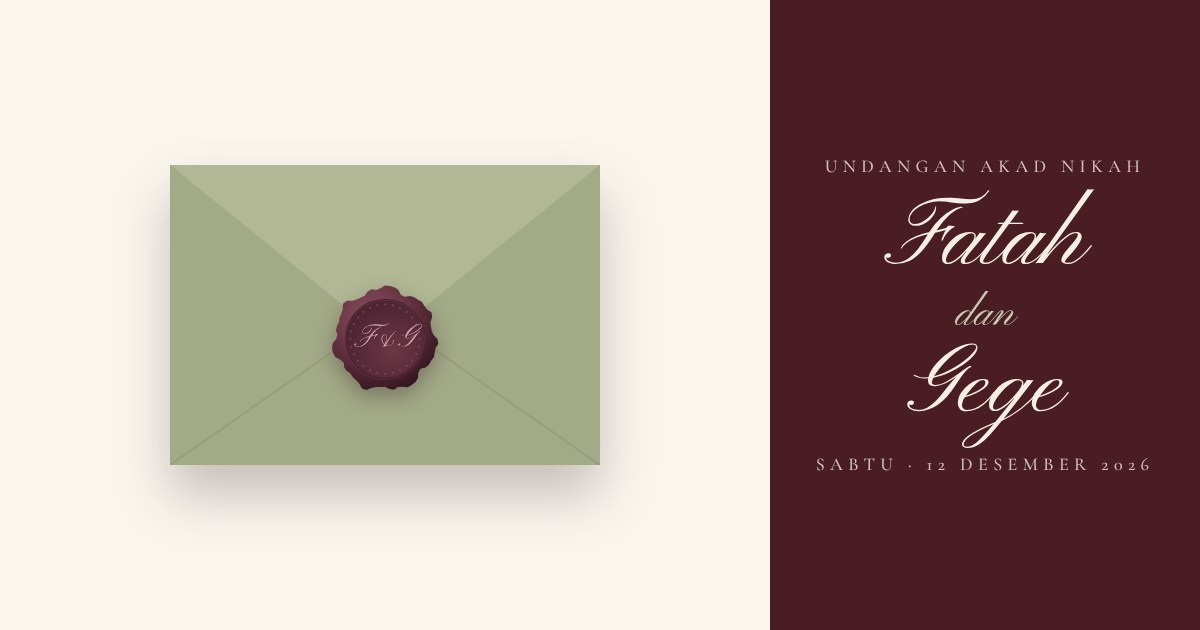
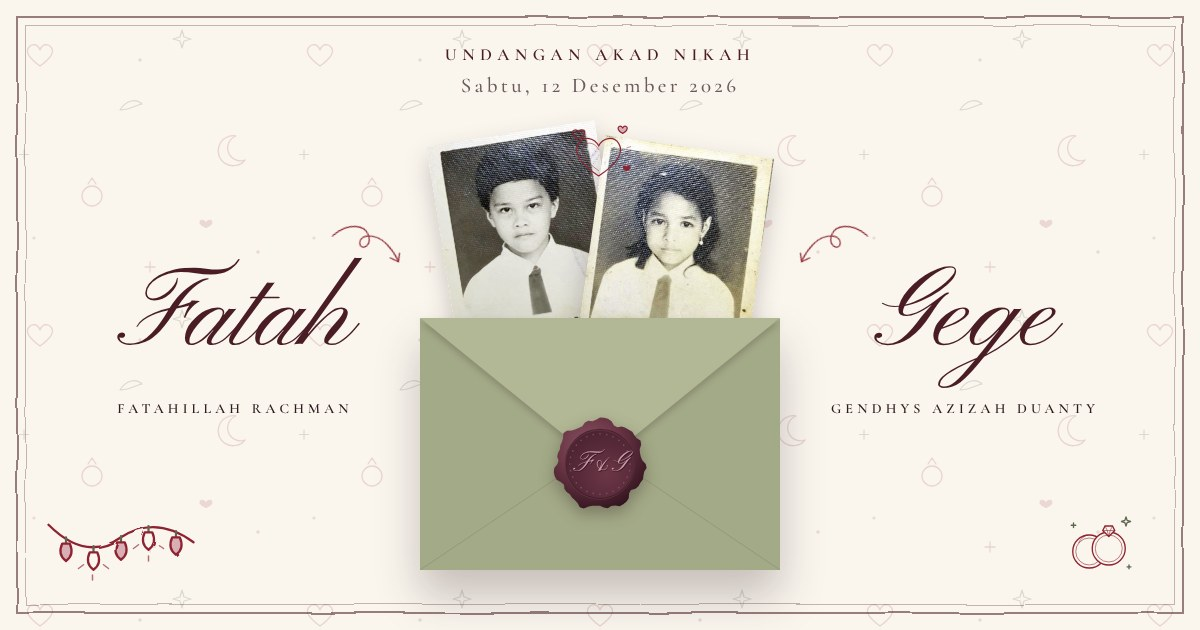
New WhatsApp/social preview image with the school photos
Preview now matches the cover: the two primary school photos tucked in
the sage envelope with the wax seal, names in calligraphy with doodle
arrows, date, doodle pattern and hand-drawn frame. The key content sits
in the centre so it still reads when cropped to a square. og:image now
carries a version query (file time) so WhatsApp fetches the new image,
plus og:image:alt and og:image:type.

Claude-Session: https://claude.ai/code/session_01XoHtnPRr6ropegWWzSqFE9

diff --git a/index.php b/index.php
@@ -57,7 +57,9 @@ $pageDesc  = tanggal_id($ev['start']) . ' · ' . $ev['venue'];
     <meta property="og:type" content="website">
     <meta property="og:title" content="<?= e($pageTitle) ?>">
     <meta property="og:description" content="<?= e($pageDesc) ?>">
-    <meta property="og:image" content="<?= e(base_url()) ?>/assets/img/og.jpg">
+    <meta property="og:image" content="<?= e(base_url() . '/' . img_url('og.jpg')) ?>">
+    <meta property="og:image:type" content="image/jpeg">
+    <meta property="og:image:alt" content="Undangan akad nikah <?= e($G['nickname']) ?> &amp; <?= e($B['nickname']) ?>, <?= e(tanggal_id($ev['start'])) ?>">
     <meta property="og:image:width" content="1200">
     <meta property="og:image:height" content="630">
     <meta name="twitter:card" content="summary_large_image">
